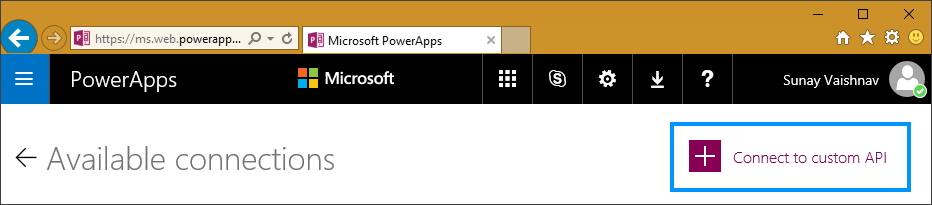
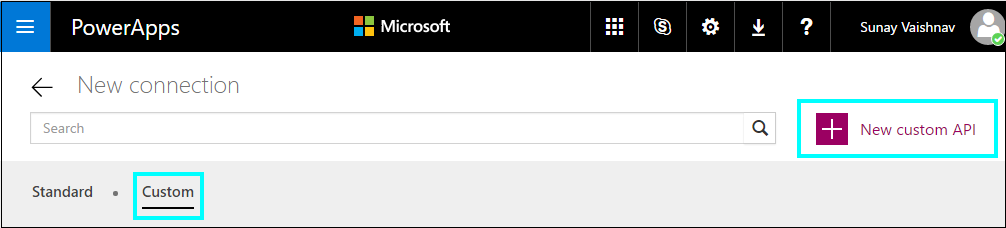
Screenshot updates

diff --git a/README.md b/README.md
@@ -1,6 +1,6 @@
-## How to use Custom APIs with PowerApps and Logic Flows
+## How to use Custom APIs with PowerApps and Microsoft Flow
 
-Custom APIs are simply any RESTful APIs that you can use bring in and use with your PowerApps and Logic Flows.
+Custom APIs are simply any RESTful APIs that you can use bring in and use with your PowerApps and Microsoft Flow
 The APIs that you register with PowerApps can be hosted anywhere, as long as a well-documented specification that conforms to the [OpenAPI](https://openapis.org/specification) standard is available.
 
 #### Authentication
@@ -32,7 +32,7 @@ If your API endpoint allows for unauthenticated access, you should omit the secu
 
 ### How to create a Custom API
 
-Head on over to the PowerApps [web portal](https://web.powerapps.com) and navigate to the __Connections__ tab, click on __Add a connection__ in the top right corner and then click on the __Add a Custom API__ button.
+Head on over to the PowerApps [web portal](https://web.powerapps.com) and navigate to the __Connections__ tab under the Manage dropdown, click on __Add a connection__ in the top right corner and then click on the Custom tab and then __New Custom API__ button, in the top right corner. 
 
 ![](./common/images/CreateNewConnection.PNG "Create Custom API")
 
@@ -43,7 +43,7 @@ Here you can upload your Swagger document and icon for the CustomAPI. If you are
 You can learn more about how to customize your Swagger document to work with PowerApps and Logic flows [here](./HowToSwagger.md).
 
 ### Sharing a Custom API
-Users can also share custom APIs with each other. Once you have created a custom API, on the Connections tab, click on the Custom API tab and click on the share icon as highlighted in the image below.
+Users can also share custom APIs with each other. Once you have created a custom API, on the Connections tab under the Manage dropdown, click on __Add a connection__ in the top right corner and then click on the Custom tab. Go the details page of the Custom API you would like to share with other users, and click on the share tab as highlighted in the image below. You can share the custom API with varying level of permissions with other users. Don't forget to hit save once you have finished adding or removing users for the changes to take place. 
 *Note: You can share custom APIs with other users in your organization only.*
 
 ![](./common/images/ShareCustomAPI.PNG "Share Custom API")
